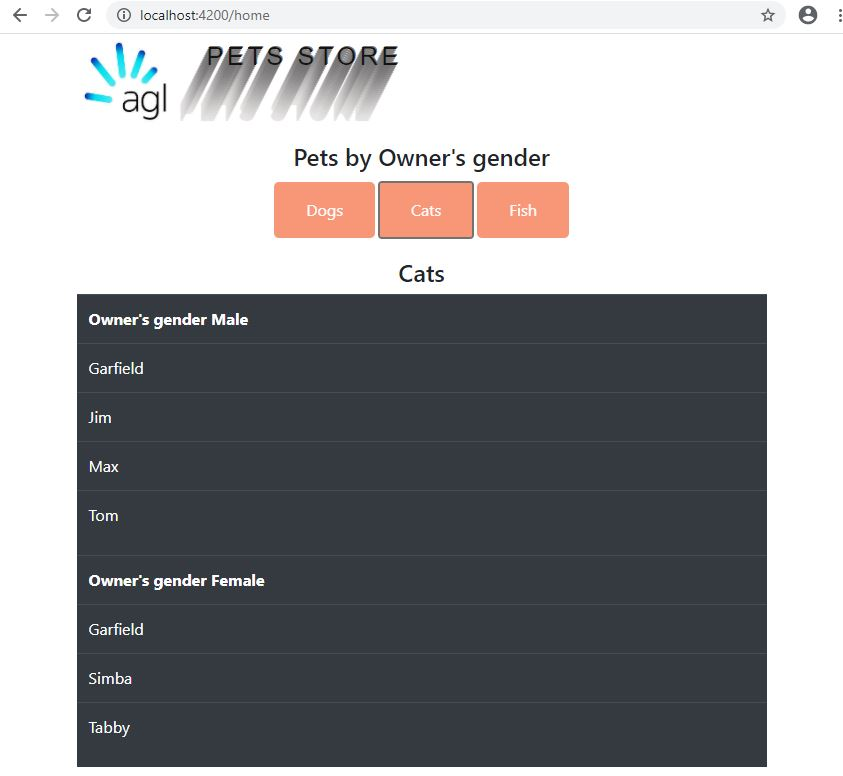
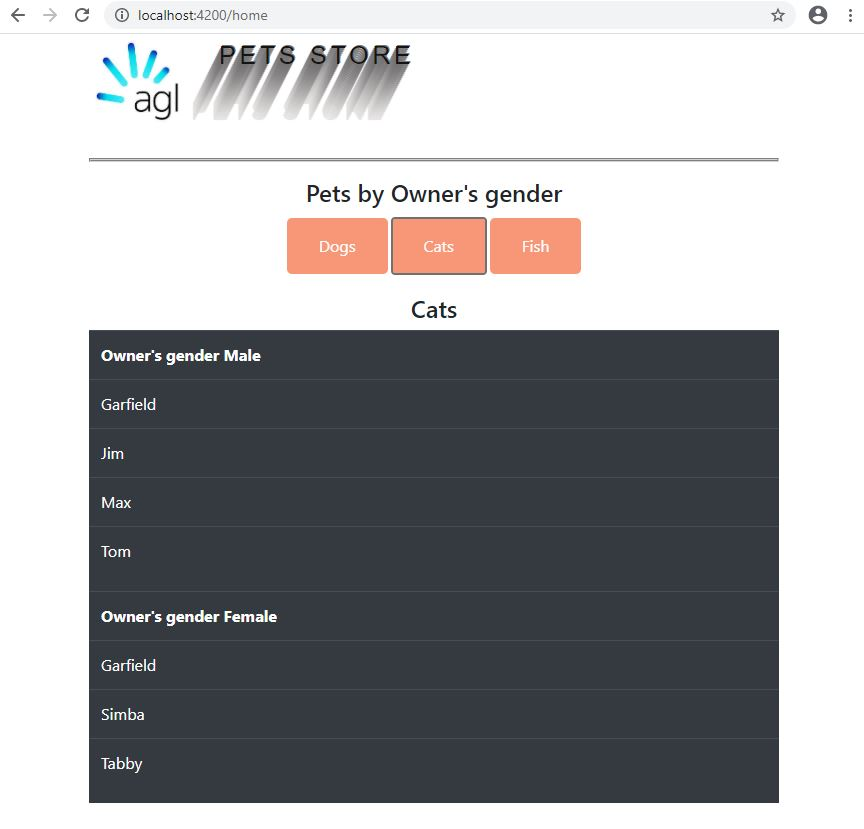
added hr separator for header.

diff --git a/agl-ui/src/app/app.component.scss b/agl-ui/src/app/app.component.scss
@@ -1,7 +1,11 @@
+hr {
+  border: 2px groove lightgrey;
+}
+
 h1 {
     font-family: "Avant Garde", Avantgarde, "Century Gothic", CenturyGothic, "AppleGothic", sans-serif;
     font-size: 25px;
-    padding: 7px 10px;
+    padding: 6px 10px;
     // text-align: center;
     text-transform: uppercase;
     text-rendering: optimizeLegibility;

diff --git a/agl-ui/src/app/app.component.html b/agl-ui/src/app/app.component.html
@@ -16,6 +16,7 @@
       <h1 style="height: 100px;" class="elegantshadow">Pets store</h1>
     </div>
   </div>
+  <hr />
   <div>
     <router-outlet></router-outlet>
   </div>
